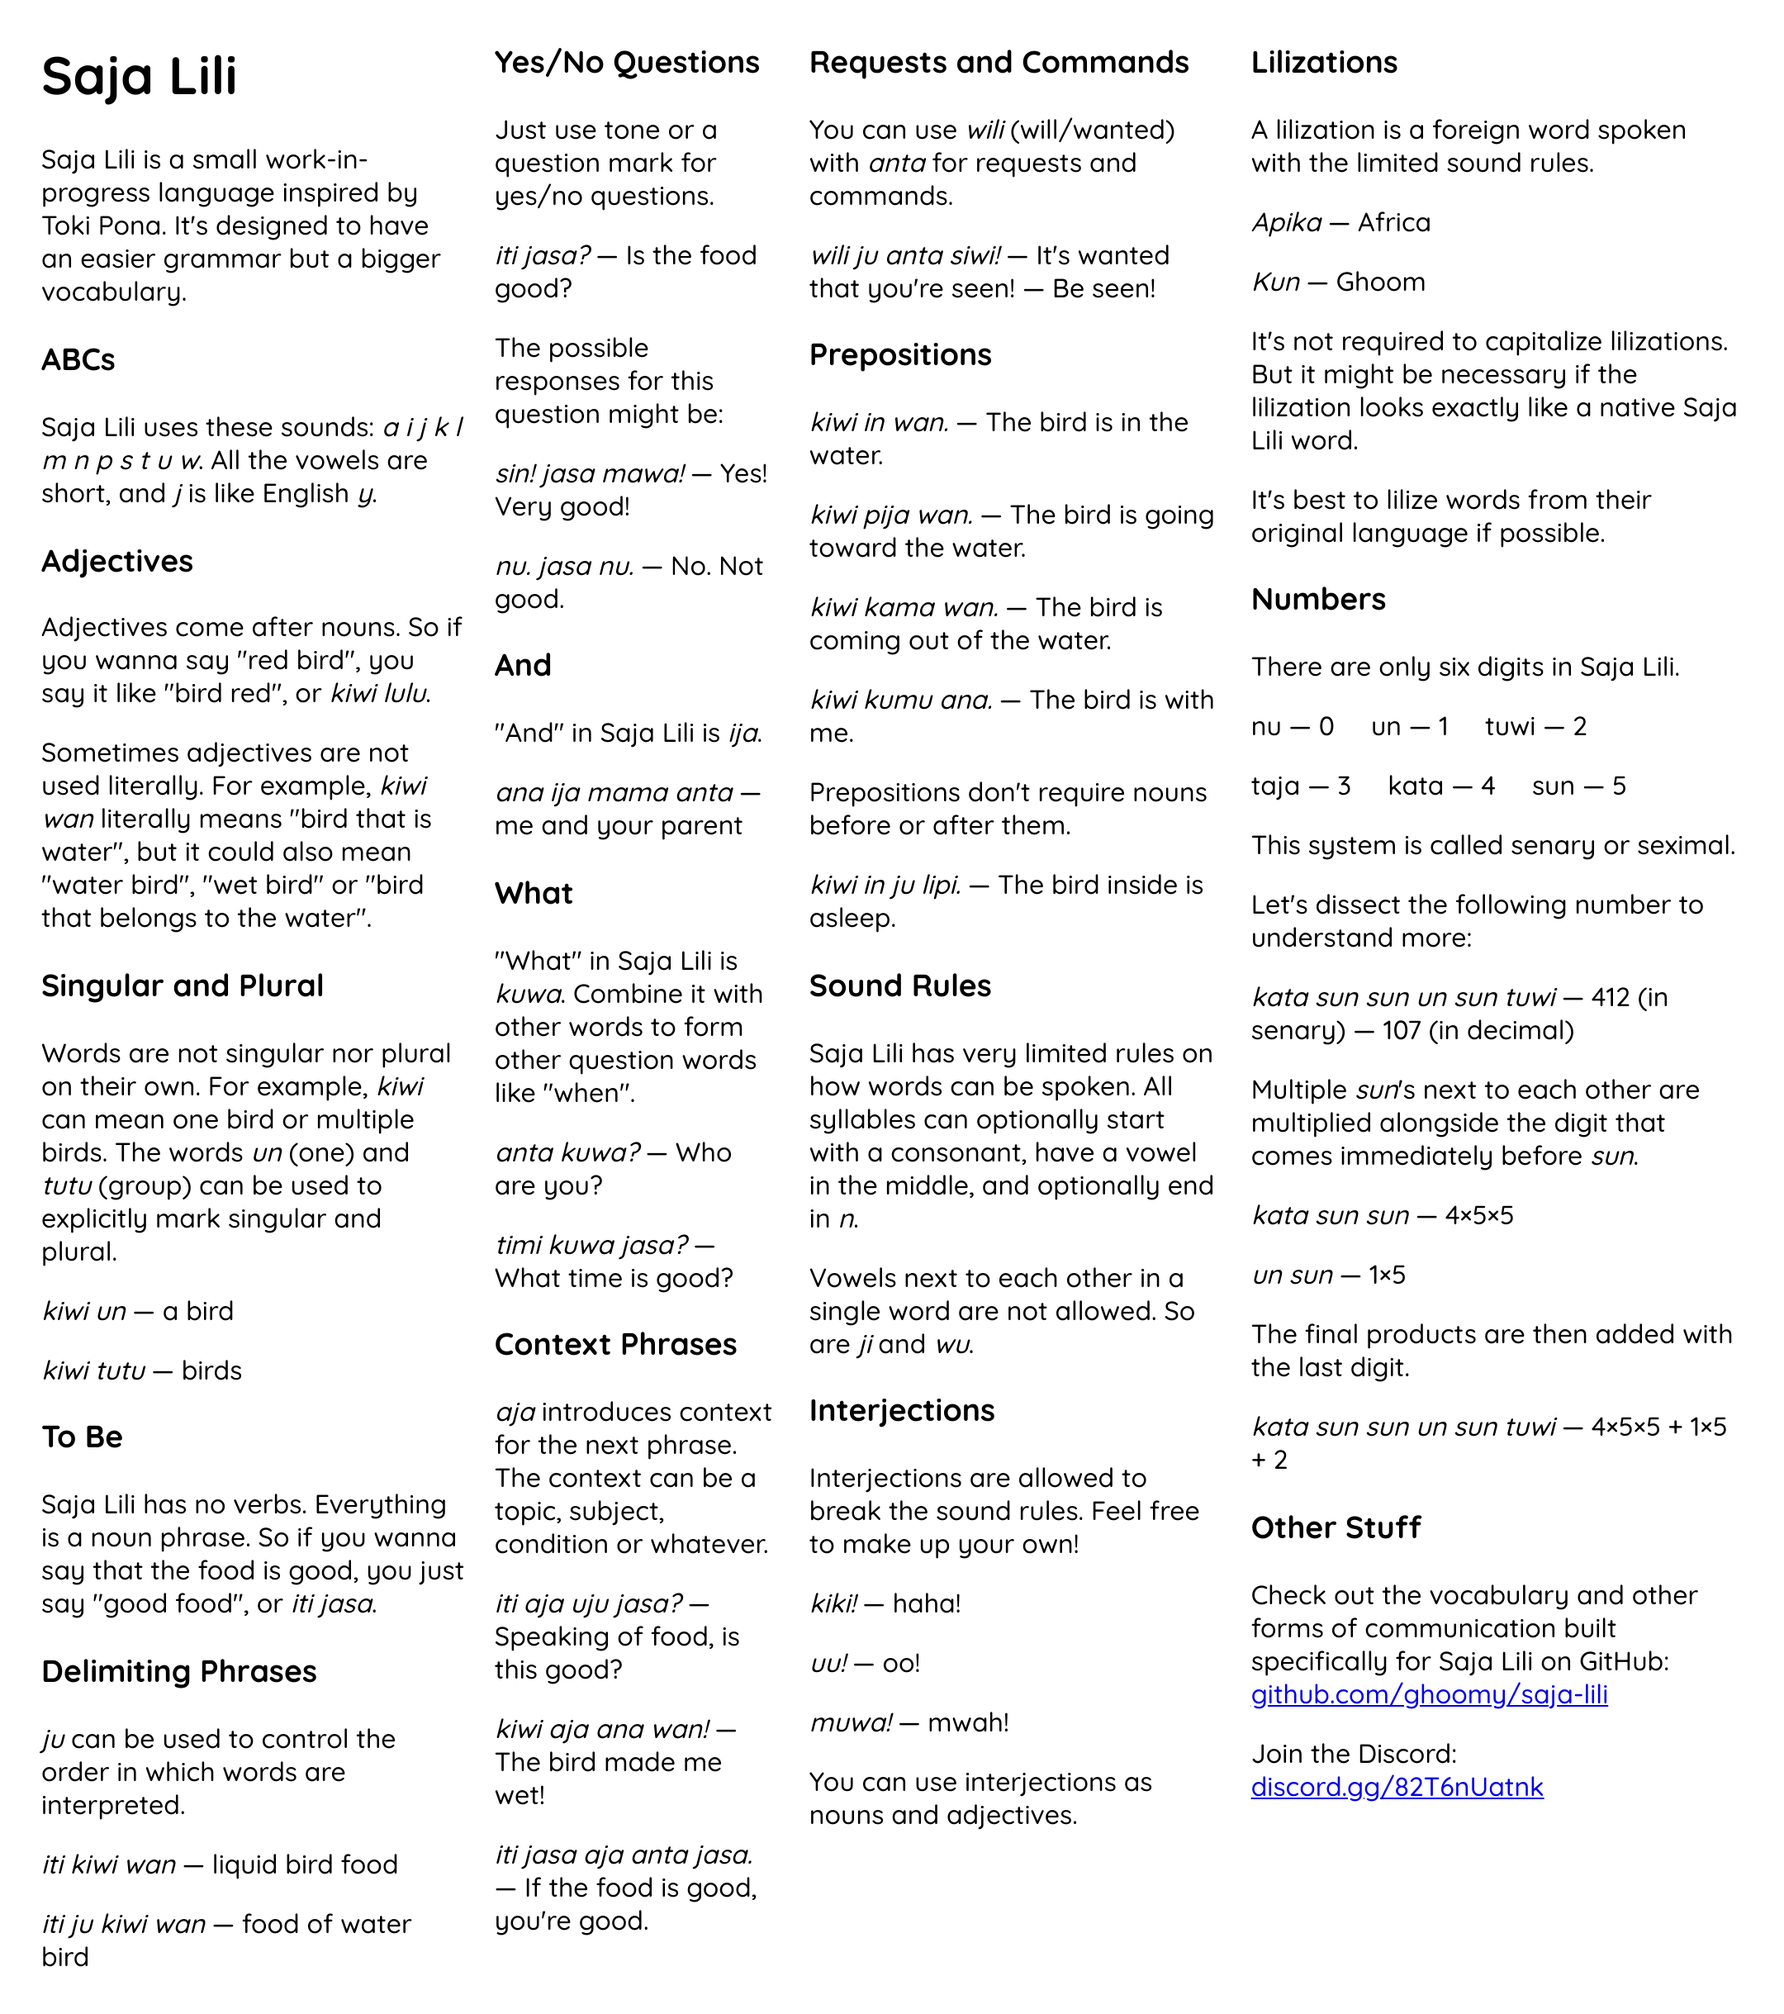
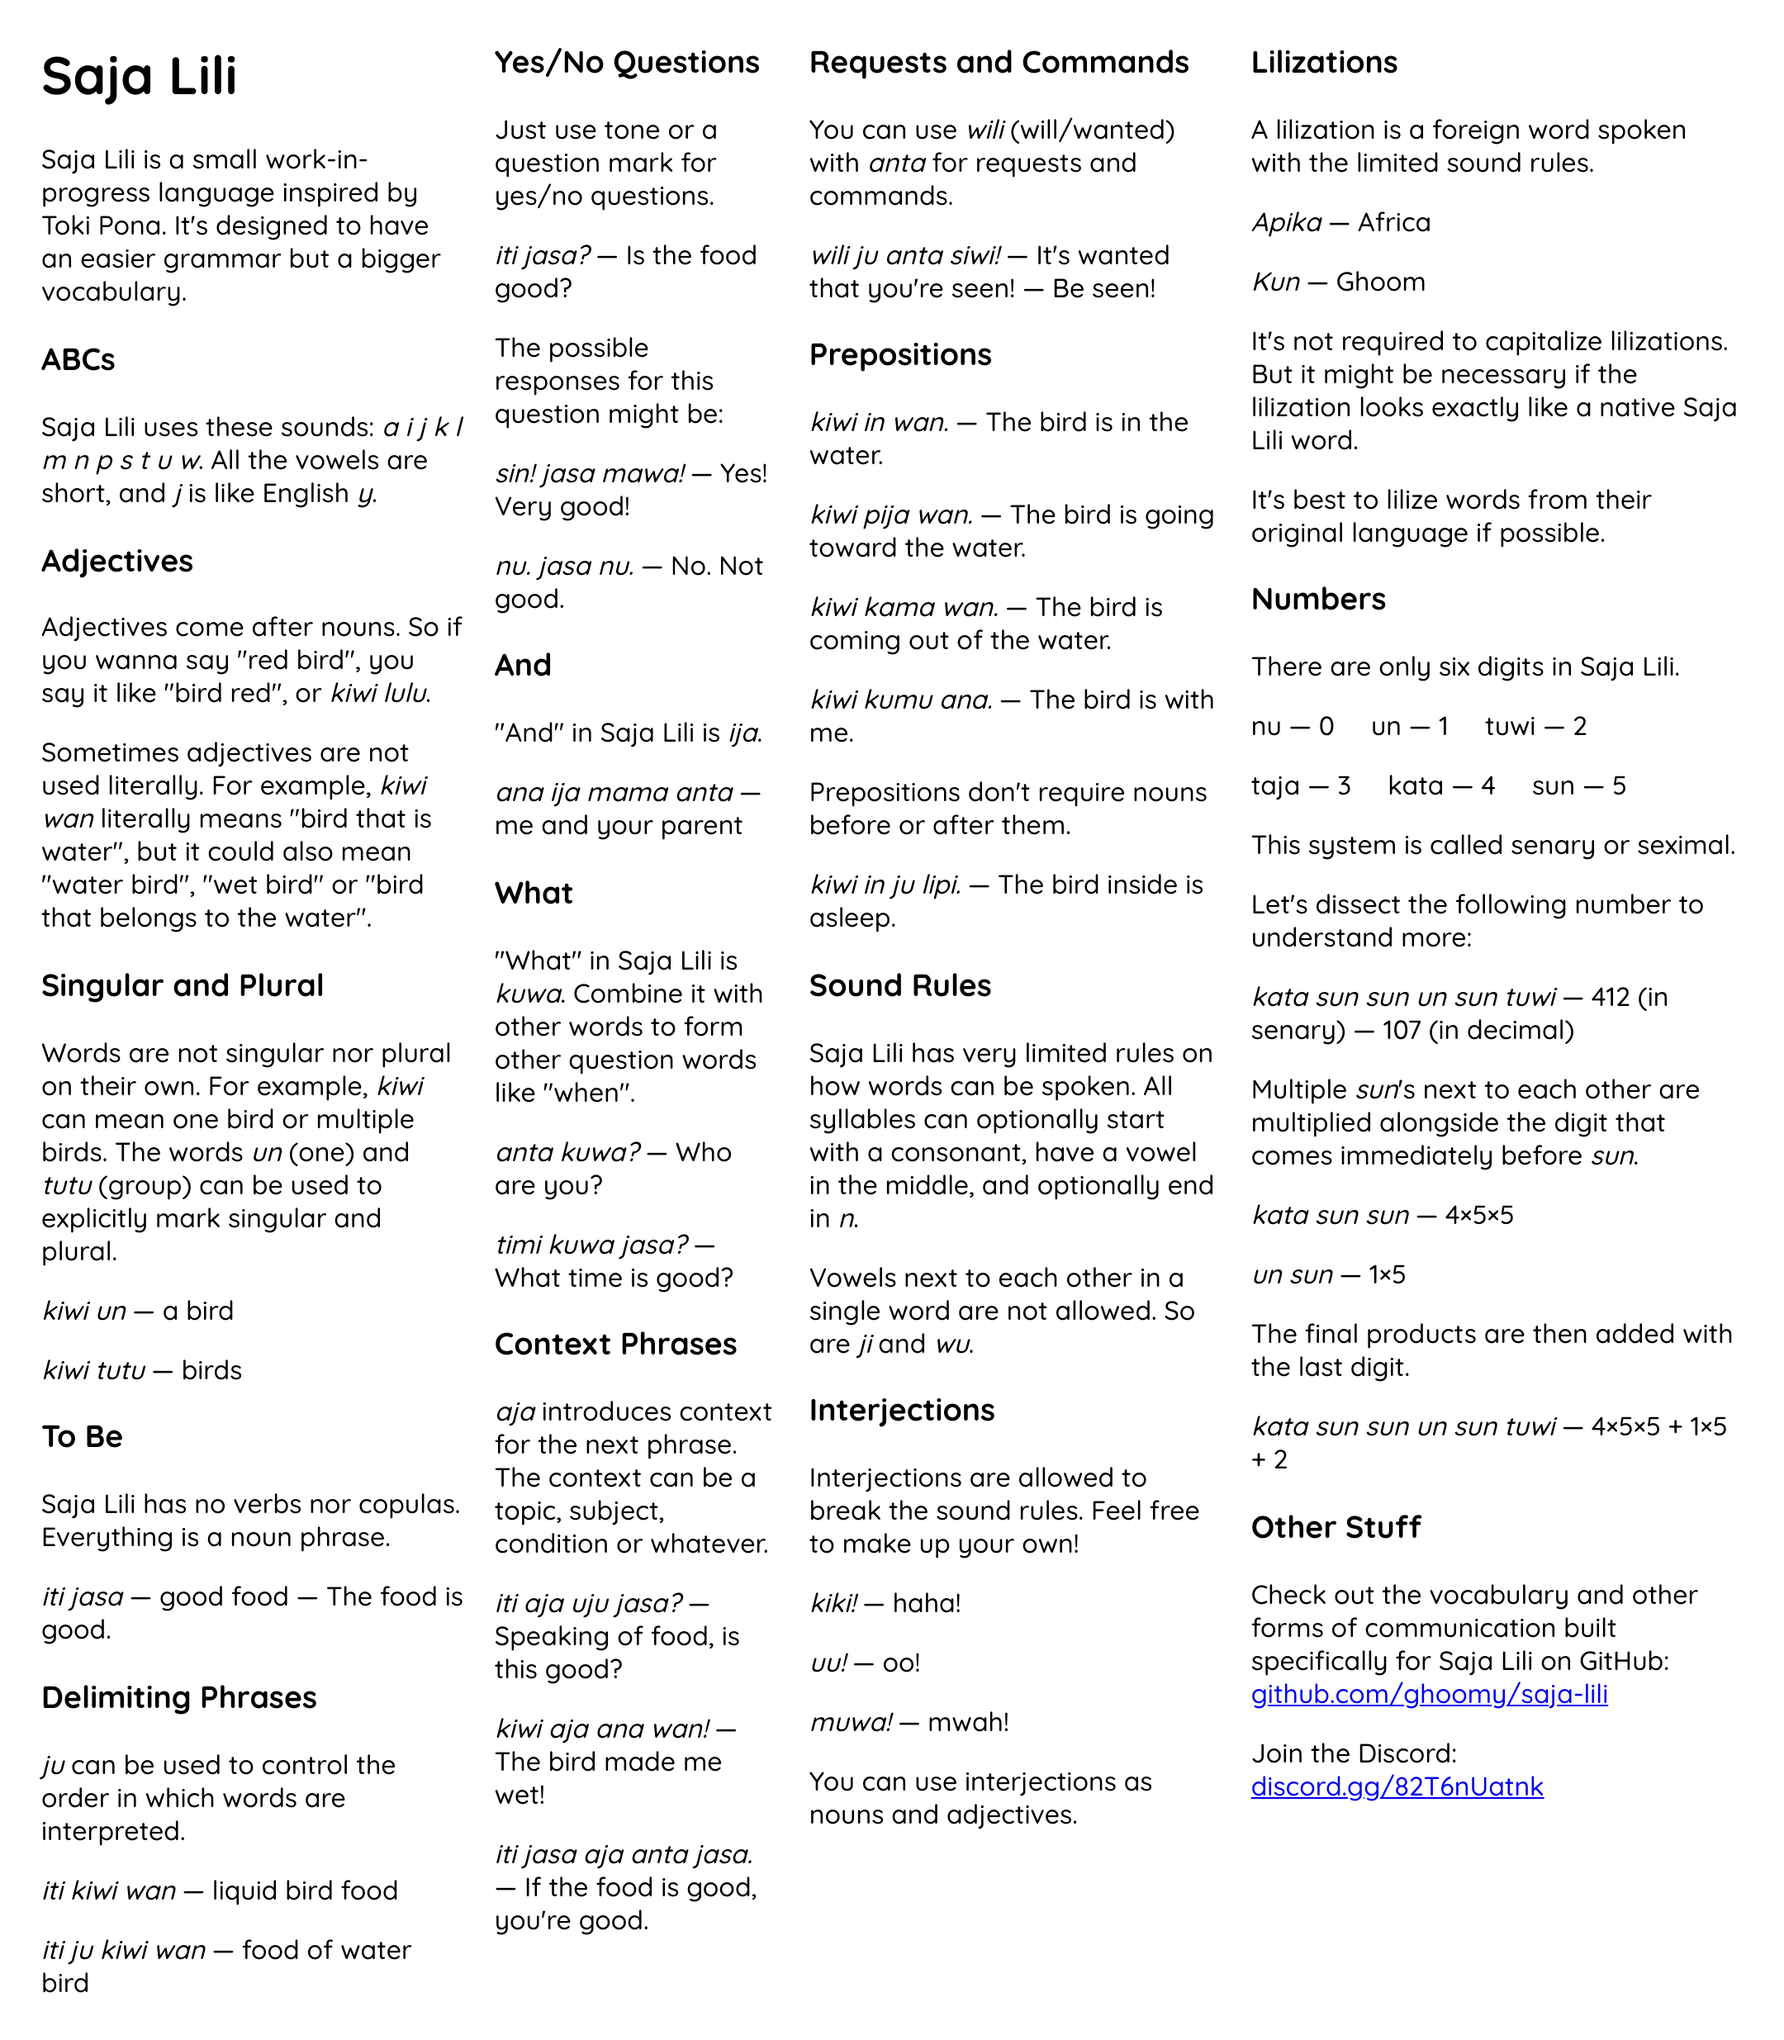
...

diff --git a/README.md b/README.md
@@ -36,7 +36,9 @@ Words are not singular nor plural on their own. For example, *kiwi* can mean one
 
 ### To Be
 
-Saja Lili has no verbs. Everything is a noun phrase. So if you wanna say that the food is good, you just say "good food", or *iti jasa*.
+Saja Lili has no verbs nor copulas. Everything is a noun phrase.
+
+*iti jasa* — good food — The food is good.
 
 ### Delimiting Phrases
 
